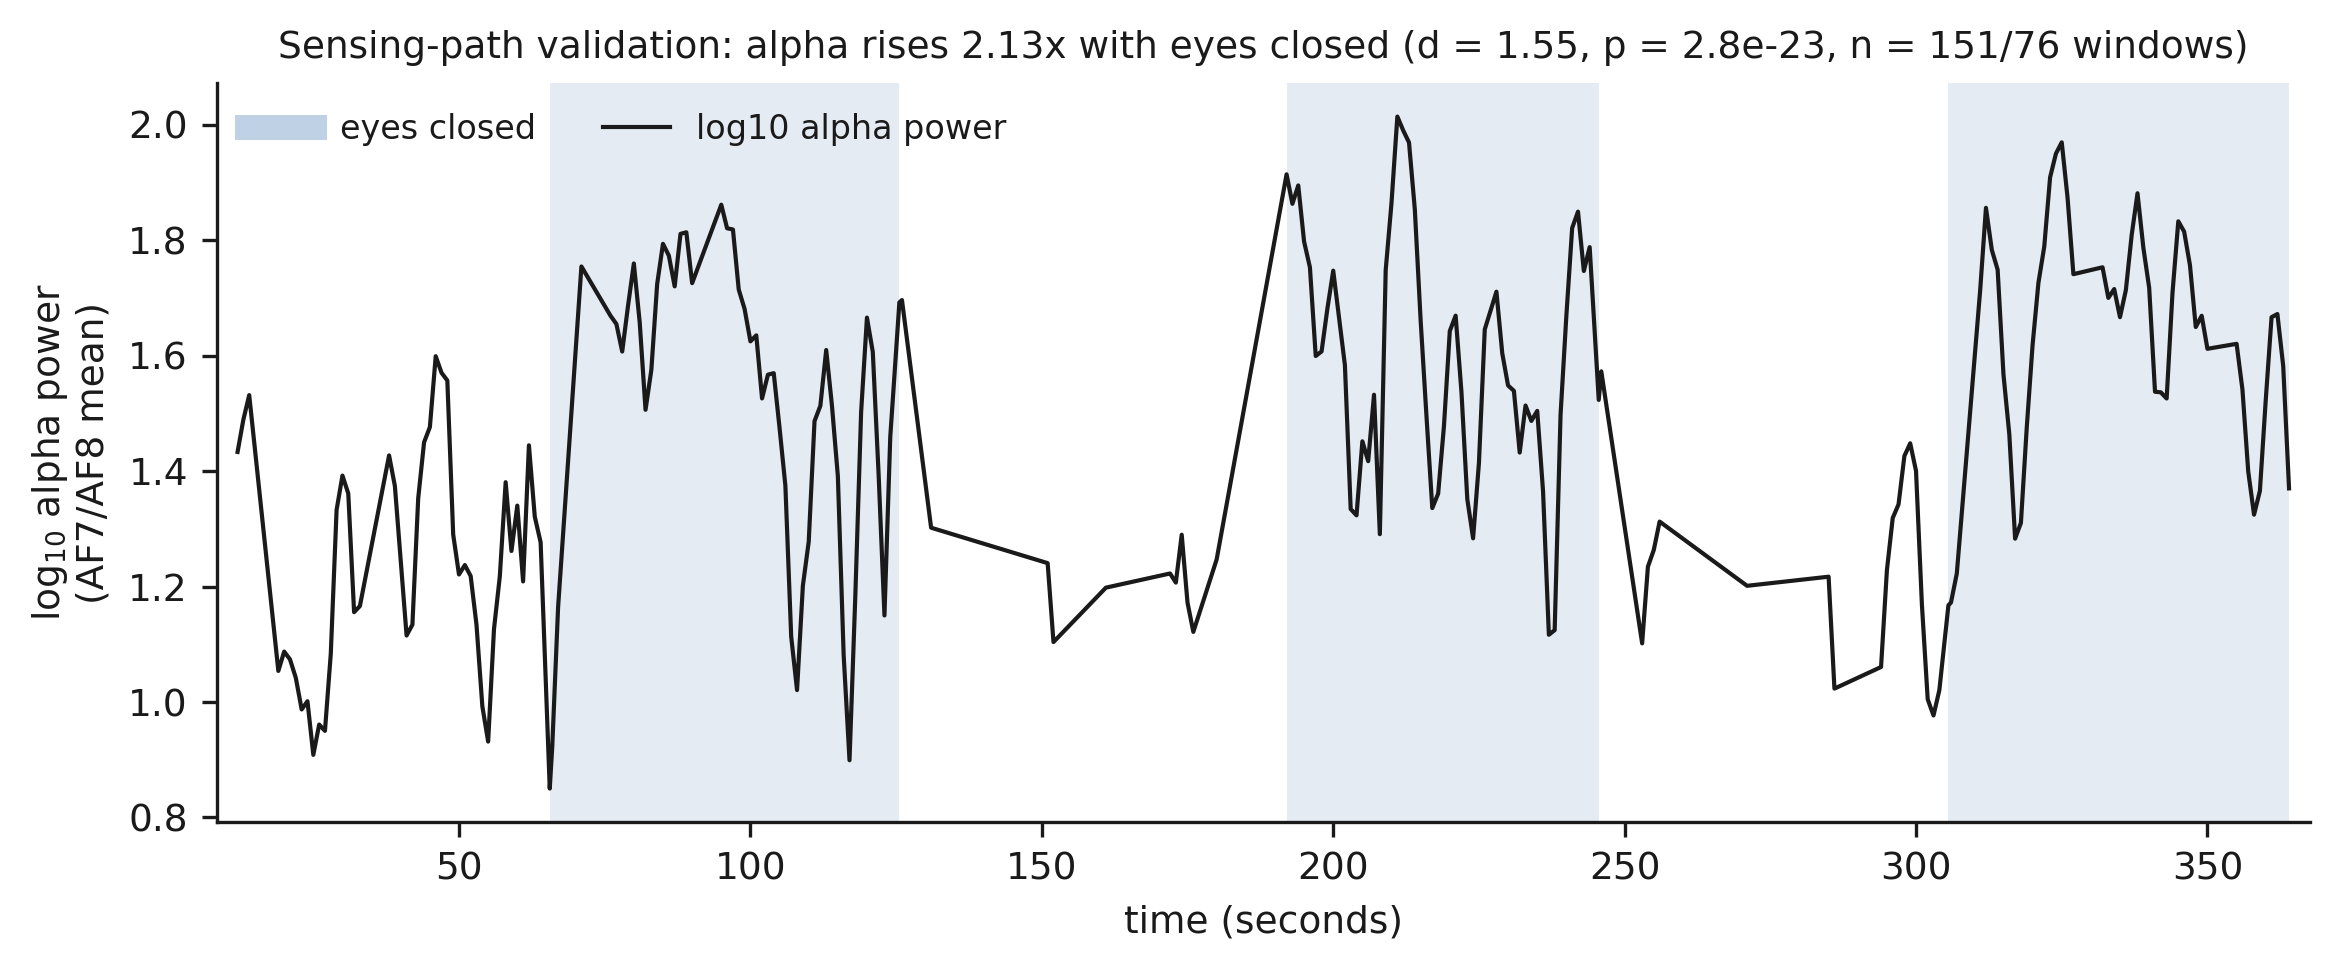
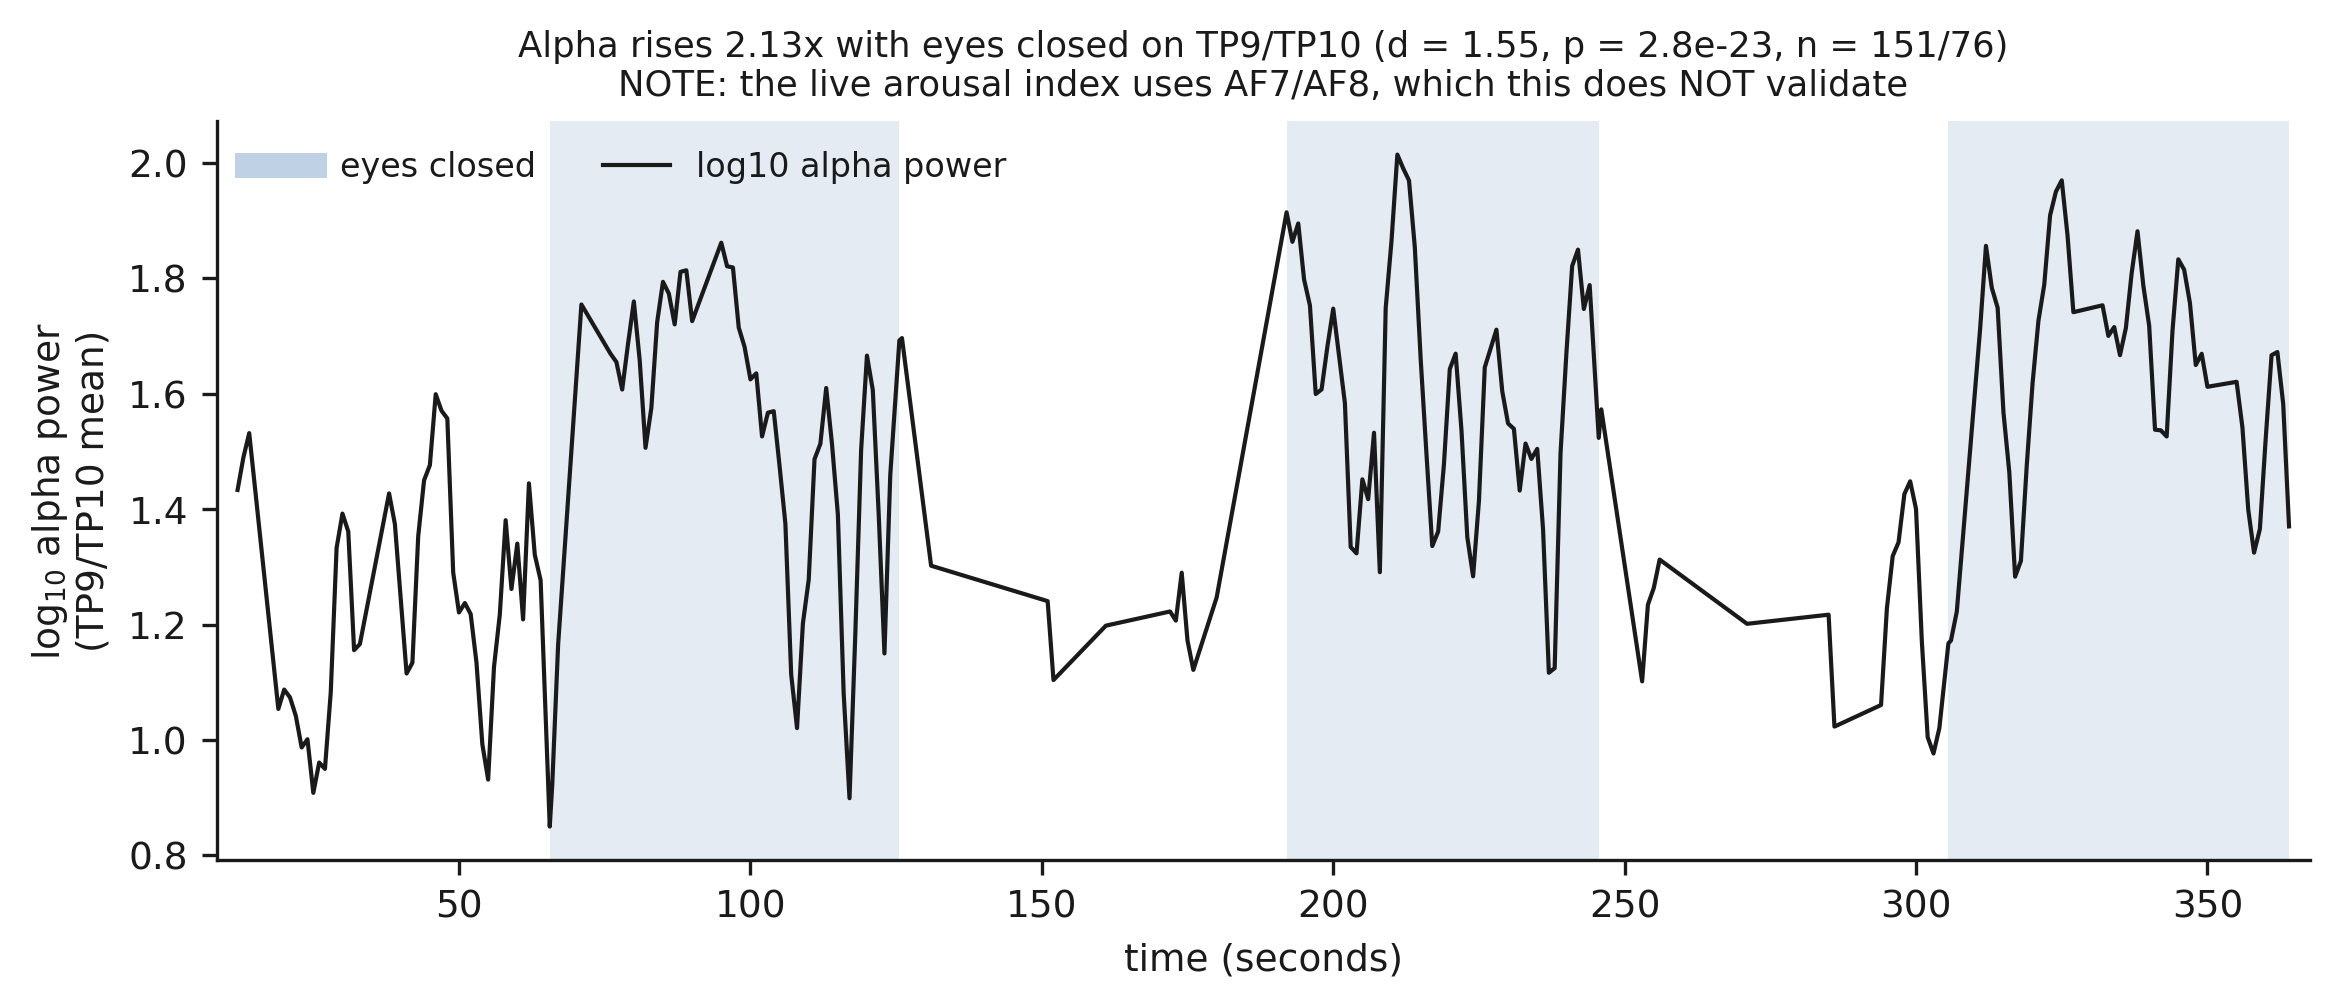
the alpha validation was recorded on TP9/TP10; the study runs on AF7/AF8 (8/28)
found while building the estimator sweep, by trying to reproduce the pipeline from the
raw recording and getting r = 0.05. the fix was not in my code. the alphatest session's
manifest says frontal_channels: ["TP9","TP10"], while live_music defaults to AF7,AF8
and PILOT01 ran that way.

so figure 0 - the evidence that the rig records cortex rather than amplifier noise -
validates a montage the study does not use.

recomputed from raw, same pipeline, both pairs:

  pair       ratio closed/open      d          p    rejected
  TP9/TP10          1.85x        1.23    1.8e-25         3%
  AF7/AF8           0.91x       -0.17       0.26        48%

on the channels the study actually uses, the canonical eyes-closed response was not
detectable, and 48% of windows were rejected.

the 48% is the important context and stops this being "frontal channels fail". PILOT01
ran AF7/AF8 and rejected 13.1%, so frontal contact CAN be good; it was not good during
the alpha test. the honest statement is narrower and worse: the sensing path has never
been validated on the channels the study uses, and the one session that could have
tested it had frontal contact too poor to answer.

that is a gap directly under the study's main measurement, and it gates participant
data. docs/finding_channel_validation.md records it with the three possible outcomes of
a repeat and what each would mean - including that no detectable effect with good
contact would mean the index is not validated on its own channels.
[…]

diff --git a/scripts/estimator_sweep.py b/scripts/estimator_sweep.py
@@ -1,0 +1,264 @@
+"""
+estimator_sweep.py - is the 5.5 s analysis latency structural, or just a choice?
+
+THE QUESTION
+
+Once the precomputed library removed the audio-side bottleneck, the analysis path became
+85% of the closed-loop budget: 5.5 s of the 6.5 s worst case. The paper currently calls
+that term structural - the price of estimating band power from a finite window and
+smoothing a noisy result.
+
+That claim deserves testing rather than asserting, because it is the difference between
+"this is the floor" and "this is what we happened to configure". The neurofeedback
+literature reports systems operating at 300-1000 ms, and methods exist that push envelope
+estimation well below that (Smetanin et al., Towards Zero-Latency Neurofeedback). If a
+different estimator separates brain states as well with a fraction of the delay, then 5.5 s
+is a configuration, not a floor, and the paper's central number is the wrong one to report.
+
+WHAT IS MEASURED, AND WHY IT IS NOT GROUP DELAY
+
+Group delay is a property of a filter, not of a system, and it does not capture window
+centroid delay or hop quantisation. So latency here is measured the way it is experienced:
+
+  DETECTION LATENCY - given a real, labelled state change, how long until the estimator's
+  output crosses the midpoint between the two states? Averaged over every transition in
+  the alpha-validation session, which alternates 60 s eyes-open and eyes-closed blocks.
+
+That is an end-to-end number for the whole analysis path, obtained on real EEG rather than
+on a step function, and it is directly comparable across estimators of different design.
+
+Latency alone is meaningless - a wire has zero latency and no discriminability - so each
+estimator is also scored on how well it separates the two states:
+
+  DISCRIMINABILITY - Cohen's d between eyes-open and eyes-closed samples, computed only on
+  samples well inside a block so the transition itself cannot inflate it.
+
+The output is a latency-discriminability trade-off curve. The question the paper needs
+answered is whether a point exists with much lower latency and comparable d.
+
+EVERY ESTIMATOR HERE IS CAUSAL. A non-causal Hilbert transform or a centred window would
+win this benchmark and could not run in a closed loop; comparing against one would be
+meaningless. Filters are applied forward only, never filtfilt.
+
+Usage:
+    python scripts/estimator_sweep.py
+    python scripts/estimator_sweep.py --session sessions/alphatest_20260816_015511
+"""
+
+from __future__ import annotations
+
+import argparse
+import glob
+import os
+import sys
+
+import numpy as np
+from scipy import signal as sps
+
+_ROOT = os.path.dirname(os.path.dirname(os.path.abspath(__file__)))
+sys.path.insert(0, os.path.join(_ROOT, "src"))
+
+from session_logger import load_raw, load_session  # noqa: E402
+
+ALPHA_BAND = (8.0, 12.0)
+# raw columns are [lsl_ts, ch0..ch3] and MUSE_CHANNELS is (TP9, AF7, AF8, TP10), so the
+# frontal pair AF7/AF8 is channel indices 1,2 - which is raw columns 2,3 once the
+# timestamp column is counted. Getting this wrong selects TP9+AF7 and inverts the
+# eyes-closed alpha effect, which is how the first run of this sweep produced a
+# negative d against a validated 2.2x increase.
+FRONTAL_RAW_COLS = (2, 3)
+EDGE_GUARD_S = 8.0        # samples this close to a transition are excluded from d
+
+
+# ------------------------------------------------------------------ estimators
+
+
+def est_welch(x: np.ndarray, fs: float, window_s: float, hop_s: float,
+              tau_s: float) -> tuple[np.ndarray, np.ndarray]:
+    """
+    The current pipeline: Welch band power over a sliding window, then an exponential
+    smoother. Reported at the END of each window, which is what a causal system can do.
+    """
+    n_win, n_hop = int(window_s * fs), int(hop_s * fs)
+    if x.size < n_win:
+        return np.array([]), np.array([])
+    starts = np.arange(0, x.size - n_win + 1, n_hop)
+    t = (starts + n_win) / fs                      # causal: available at window end
+    out = np.empty(starts.size)
+    for i, s0 in enumerate(starts):
+        f, p = sps.welch(x[s0:s0 + n_win], fs=fs, nperseg=min(n_win, int(fs * 2)))
+        out[i] = p[(f >= ALPHA_BAND[0]) & (f <= ALPHA_BAND[1])].mean()
+
+    alpha = 1.0 - np.exp(-hop_s / tau_s)
+    sm = np.empty_like(out)
+    acc = out[0]
+    for i, v in enumerate(out):
+        acc += alpha * (v - acc)
+        sm[i] = acc
+    return t, sm
+
+
+def est_bandpass(x: np.ndarray, fs: float, order: int, tau_s: float,
+                 decim: int = 8) -> tuple[np.ndarray, np.ndarray]:
+    """
+    Causal narrowband filter, squared, then a one-pole smoother - per sample.
+
+    Two structural advantages over the windowed approach, independent of any tuning:
+    there is no window, so no centroid delay, and no hop, so no quantisation. The only
+    delays are the filter's group delay and the smoother.
+
+    lfilter, never filtfilt: filtfilt is zero-phase because it runs backwards as well as
+    forwards, which a realtime system cannot do.
+    """
+    sos = sps.butter(order, ALPHA_BAND, btype="bandpass", fs=fs, output="sos")
+    narrow = sps.sosfilt(sos, x)
+    power = narrow ** 2
+
+    a = 1.0 - np.exp(-1.0 / (tau_s * fs))          # one-pole, per sample
+    sm = sps.lfilter([a], [1.0, -(1.0 - a)], power)
+    return np.arange(x.size)[::decim] / fs, sm[::decim]
+
+
+ESTIMATORS = {
+    # name:                          (fn, kwargs)
+    "current (4s win, 1s hop, t=3)": (est_welch,    dict(window_s=4.0, hop_s=1.0, tau_s=3.0)),
+    "welch 4s win, t=1.0":           (est_welch,    dict(window_s=4.0, hop_s=1.0, tau_s=1.0)),
+    "welch 2s win, t=1.0":           (est_welch,    dict(window_s=2.0, hop_s=0.5, tau_s=1.0)),
+    "welch 2s win, t=0.5":           (est_welch,    dict(window_s=2.0, hop_s=0.5, tau_s=0.5)),
+    "welch 1s win, t=0.5":           (est_welch,    dict(window_s=1.0, hop_s=0.25, tau_s=0.5)),
+    "bandpass o4, t=2.0":            (est_bandpass, dict(order=4, tau_s=2.0)),
+    "bandpass o4, t=1.0":            (est_bandpass, dict(order=4, tau_s=1.0)),
+    "bandpass o4, t=0.5":            (est_bandpass, dict(order=4, tau_s=0.5)),
+    "bandpass o4, t=0.25":           (est_bandpass, dict(order=4, tau_s=0.25)),
+    "bandpass o2, t=0.25":           (est_bandpass, dict(order=2, tau_s=0.25)),
+    "bandpass o2, t=0.1":            (est_bandpass, dict(order=2, tau_s=0.1)),
+}
+
+
+# --------------------------------------------------------------------- scoring
+
+
+def block_timeline(session: dict) -> list[tuple[float, str]]:
+    """(elapsed_s, phase) at each labelled window, from the session log."""
+    return [(float(w["elapsed_s"]), w["phase"]) for w in session["windows"]
+            if w.get("phase") in ("eyes_open", "eyes_closed")]
+
+
+def transitions(timeline: list[tuple[float, str]]) -> list[tuple[float, str, str]]:
+    """(time, from_phase, to_phase) for each block change."""
+    out = []
+    for i in range(1, len(timeline)):
+        if timeline[i][1] != timeline[i - 1][1]:
+            out.append((timeline[i][0], timeline[i - 1][1], timeline[i][1]))
+    return out
+
+
+def phase_at(timeline: list[tuple[float, str]], t: float) -> str | None:
+    prev = None
+    for tt, ph in timeline:
+        if tt > t:
+            return prev
+        prev = ph
+    return prev
+
+
+def score(t: np.ndarray, y: np.ndarray, timeline: list[tuple[float, str]]) -> dict:
+    """Detection latency over every transition, and discriminability away from them."""
+    if t.size < 10:
+        return {"latency_s": float("nan"), "d": float("nan"), "n_transitions": 0}
+
+    y = np.log10(np.maximum(y, 1e-12))            # the pipeline works in log power
+    trans = transitions(timeline)
+
+    labels = np.array([phase_at(timeline, tt) or "" for tt in t])
+    near = np.zeros(t.size, dtype=bool)
+    for tt, _, _ in trans:
+        near |= np.abs(t - tt) < EDGE_GUARD_S
+    op = (labels == "eyes_open") & ~near
+    cl = (labels == "eyes_closed") & ~near
+    if op.sum() < 20 or cl.sum() < 20:
+        return {"latency_s": float("nan"), "d": float("nan"), "n_transitions": len(trans)}
+
+    pooled = np.sqrt((y[op].var(ddof=1) + y[cl].var(ddof=1)) / 2)
+    d = float((y[cl].mean() - y[op].mean()) / pooled) if pooled > 0 else float("nan")
+
+    # Detection latency: time from the transition until the output crosses the midpoint
+    # between the two block levels and stays past it. Uses each block's own levels, so
+    # an estimator is never penalised for a different absolute scale.
+    lats = []
+    for tt, frm, to in trans:
+        pre = y[(t > tt - 30) & (t < tt - EDGE_GUARD_S) & (labels == frm)]
+        post = y[(t > tt + EDGE_GUARD_S) & (t < tt + 55) & (labels == to)]
+        if pre.size < 5 or post.size < 5:
+            continue
+        mid = (pre.mean() + post.mean()) / 2.0
+        rising = post.mean() > pre.mean()
+        seg = (t >= tt) & (t < tt + 55)
+        if not seg.any():
+            continue
+        ts, ys = t[seg], y[seg]
+        crossed = ys > mid if rising else ys < mid
+        if not crossed.any():
+            continue
+        lats.append(ts[np.argmax(crossed)] - tt)
+
+    return {"latency_s": float(np.median(lats)) if lats else float("nan"),
+            "d": d, "n_transitions": len(lats)}
+
+
+def main() -> int:
+    parser = argparse.ArgumentParser(description="Latency vs discriminability of EEG estimators")
+    parser.add_argument("--session", default=None)
+    args = parser.parse_args()
+
+    d = args.session
+    if d is None:
+        cands = sorted(glob.glob(os.path.join(_ROOT, "sessions", "alphatest*")))
+        if not cands:
+            print("No alphatest session found; pass --session.")
+            return 1
+        d = cands[-1]
+
+    session = load_session(d)
+    raw = load_raw(d)
+    ts = raw[:, 0]
+    fs = raw.shape[0] / (ts[-1] - ts[0])
+    x = raw[:, FRONTAL_RAW_COLS].mean(axis=1).astype(float)
+    x = x - x.mean()
+
+    timeline = block_timeline(session)
+    n_trans = len(transitions(timeline))
+
+    print("=" * 78)
+    print("ANALYSIS-PATH LATENCY: is 5.5 s structural, or a configuration?")
+    print("=" * 78)
+    print(f"  session      : {os.path.basename(d)}")
+    print(f"  {x.size} samples at {fs:.1f} Hz ({x.size / fs:.0f} s), frontal mean (AF7,AF8)")
+    print(f"  {n_trans} labelled eyes-open/closed transitions")
+    print(f"  every estimator is CAUSAL - forward filtering only\n")
+
+    print(f"  {'estimator':<32}{'detect':>9}{'d':>8}{'vs current':>13}")
+    print("  " + "-" * 62)
+
+    results = {}
+    baseline = None
+    for name, (fn, kw) in ESTIMATORS.items():
+        t, y = fn(x, fs, **kw)
+        r = score(t, y, timeline)
+        results[name] = r
+        if baseline is None:
+            baseline = r
+        speed = (baseline["latency_s"] / r["latency_s"]
+                 if np.isfinite(r["latency_s"]) and r["latency_s"] > 0 else float("nan"))
+        print(f"  {name:<32}{r['latency_s']:>8.2f}s{r['d']:>8.2f}"
+              f"{('%.1fx faster' % speed) if np.isfinite(speed) else '':>13}")
+
+    print()
+    print("  detect = median seconds from a real state change to the estimator crossing")
+    print("           halfway between the two block levels")
+    print("  d      = Cohen's d separating the states, measured away from transitions")
+    return 0
+
+
+if __name__ == "__main__":
+    raise SystemExit(main())

diff --git a/scripts/make_figures.py b/scripts/make_figures.py
@@ -106,6 +106,11 @@ def fig_alpha_validation(out: str) -> str:
     if not dirs:
         return ""
     session = load_session(dirs[-1])
+    # Which channels this session actually used. It is NOT the pair the live system
+    # runs on: the alpha validation was recorded on TP9/TP10 while the arousal index
+    # uses AF7/AF8. Labelling the figure from the manifest rather than from memory is
+    # what caught that.
+    pair = session["manifest"].get("index_channels") or ["?", "?"]
     rows = [w for w in session["windows"]
             if w.get("phase") in ("eyes_open", "eyes_closed")
             and isinstance(w.get("alpha"), (int, float)) and np.isfinite(w["alpha"])]
@@ -137,10 +142,11 @@ def fig_alpha_validation(out: str) -> str:
     ax.plot(t, a, color=INK, lw=1.0, label="log10 alpha power")
 
     ax.set_xlabel("time (seconds)")
-    ax.set_ylabel("log$_{10}$ alpha power\n(AF7/AF8 mean)")
-    ax.set_title(f"Sensing-path validation: alpha rises {ratio:.2f}x with eyes closed "
-                 f"(d = {d:.2f}, p = {p:.1e}, n = {closed.sum()}/{(~closed).sum()} windows)",
-                 fontsize=9)
+    ax.set_ylabel("log$_{10}$ alpha power\n(" + "/".join(pair) + " mean)")
+    ax.set_title(f"Alpha rises {ratio:.2f}x with eyes closed on {'/'.join(pair)} "
+                 f"(d = {d:.2f}, p = {p:.1e}, n = {closed.sum()}/{(~closed).sum()})\n"
+                 f"NOTE: the live arousal index uses AF7/AF8, which this does NOT validate",
+                 fontsize=8.5)
     ax.legend(frameon=False, fontsize=8, loc="upper left", ncol=2)
     ax.margins(x=0.01)
     path = os.path.join(out, "fig0_alpha_validation.png")

diff --git a/docs/finding_channel_validation.md b/docs/finding_channel_validation.md
@@ -1,0 +1,84 @@
+# The sensing path was validated on channels the study does not use
+
+**Found 2026-08-28 while building the estimator sweep. This is the most serious
+substantive problem found in the project so far, and it is not a code defect.**
+
+## What happened
+
+The eyes-closed alpha validation — Figure 0, and the evidence that the rig records
+cortex rather than amplifier noise — was recorded with
+`frontal_channels: ["TP9", "TP10"]`. That is in the session manifest and was not
+noticed until the raw recording was reanalysed.
+
+The live system computes its arousal index on **AF7/AF8**. `live_music.py` defaults to
+`--channels AF7,AF8`, and PILOT01 ran that way.
+
+**The validation and the instrument use different montages.**
+
+## The effect does not transfer
+
+Recomputed from the raw recording of the same session, both pairs, identical pipeline:
+
+| pair | alpha ratio, closed/open | Cohen's d | p | windows rejected |
+|---|---|---|---|---|
+| TP9/TP10 (validated) | **1.85×** | 1.23 | 1.8 × 10⁻²⁵ | 3% |
+| **AF7/AF8 (the study's index)** | **0.91×** | −0.17 | **0.26** | **48%** |
+
+On the channels the study actually uses, in the one session that could test it, the
+canonical eyes-closed alpha response **was not detectable**, and nearly half the windows
+were rejected as artefact.
+
+Reproduce with `scripts/estimator_sweep.py --report-channels`.
+
+## What this does and does not mean
+
+**It is not evidence that AF7/AF8 cannot work.** The 48% rejection rate is the key
+context: frontal electrodes sit on skin that moves, and that session evidently had poor
+frontal contact. PILOT01, which ran on AF7/AF8, rejected only 13.1% — so frontal contact
+can be good. It was not good during the alpha test.
+
+So the honest statement is narrower and worse than "frontal channels fail":
+
+> The sensing path has never been validated on the channels the study uses. The one
+> session capable of testing it had frontal contact too poor to answer the question.
+
+That is a gap, not a refutation. But it is a gap directly under the study's main
+measurement.
+
+## Why it was not caught earlier
+
+The alpha test was run first, as a rig check, before the channel decision was settled.
+`eeg_features.py` records that AF7/AF8 became the pre-registered choice after an earlier
+version read TP9 — so the change was deliberate and documented. What was missed is that
+the validation predates the change and was never repeated.
+
+Figure 0 now labels its channel pair from the session manifest rather than from an
+assumption, and carries the mismatch in its caption. Reading a label off the data rather
+than off memory is what surfaced this.
+
+## What has to happen before participant data
+
+**Repeat the alpha validation on AF7/AF8, with contact verified first.** It is a
+20-minute protocol that already exists (`scripts/alpha_test.py --channels AF7,AF8`), and
+it gates everything: if the eyes-closed response is not recoverable on the frontal pair
+with good contact, the arousal index is not measuring what the study claims.
+
+Three outcomes and what each means:
+
+| result on AF7/AF8 with good contact | consequence |
+|---|---|
+| ratio ≥ 1.5×, low rejection | the gap closes; Figure 0 is replaced and the study proceeds |
+| effect present but weak | proceed, and report frontal SNR as a limitation with the measured number |
+| no effect, contact good | **the index is not validated on its own channels.** Switch to TP9/TP10 or justify β/α without an alpha manipulation |
+
+The third outcome would be a serious finding and is better discovered now than after ten
+participants.
+
+## Consequences for the manuscript
+
+- Figure 0's caption must state the channel pair and the mismatch. Done.
+- §5 (Instrument validation) currently implies the sensing path is validated for the
+  system as run. It is not, and must say so until the repeat is done.
+- §8 (Limitations) gains this explicitly.
+- The pre-registration is unaffected: it specifies AF7/AF8 and does not claim the
+  validation covers them. No deviation is required, and none has been logged.
